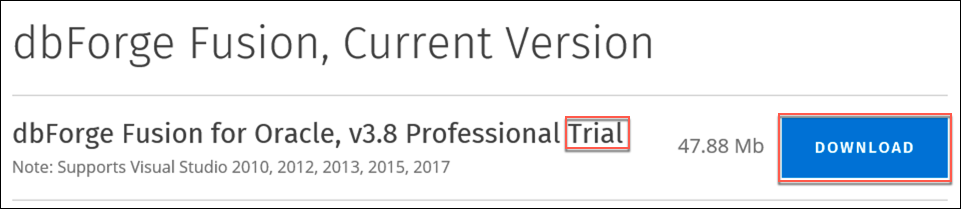
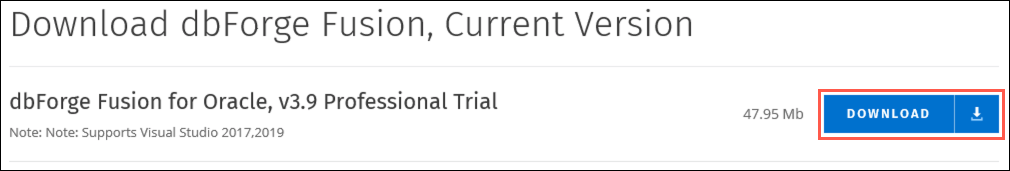
HOL updates

diff --git a/Hands-on lab/HOL step-by-step - Data Platform upgrade and migration.md b/Hands-on lab/HOL step-by-step - Data Platform upgrade and migration.md
@@ -9,7 +9,7 @@ Hands-on lab step-by-step
 </div>
 
 <div class="MCWHeader3">
-September 2019
+November 2019
 </div>
 
 Information in this document, including URL and other Internet Web site references, is subject to change without notice. Unless otherwise noted, the example companies, organizations, products, domain names, e-mail addresses, logos, people, places, and events depicted herein are fictitious, and no association with any real company, organization, product, domain name, e-mail address, logo, person, place or event is intended or should be inferred. Complying with all applicable copyright laws is the responsibility of the user. Without limiting the rights under copyright, no part of this document may be reproduced, stored in or introduced into a retrieval system, or transmitted in any form or by any means (electronic, mechanical, photocopying, recording, or otherwise), or for any purpose, without the express written permission of Microsoft Corporation.
@@ -63,25 +63,25 @@ Microsoft and the trademarks listed at <https://www.microsoft.com/en-us/legal/in
 
 ## Abstract and learning objectives
 
-In this hands-on lab, you will implement a proof of concept (POC) for conducting a site analysis for a customer to compare cost, performance, and level of effort required to migrate from Oracle to SQL Server. You will evaluate the dependent applications and reports that will need to be updated and come up with a migration plan. In addition, you will help the customer take advantage of new SQL Server features to improve performance and resiliency, as well as conduct a migration from an old version of SQL Server to Azure SQL Database.
+In this hands-on lab, you implement a proof of concept (POC) for conducting a site analysis for a customer to compare cost, performance, and level of effort required to migrate from Oracle to SQL Server. You evaluate the dependent applications and reports that need to be updated and come up with a migration plan. Also, you help the customer take advantage of new SQL Server features to improve performance and resiliency and perform a migration from an old version of SQL Server to Azure SQL Database.
 
 At the end of this hands-on lab, you will be better able to design and build a database migration plan and implement any required application changes associated with changing database technologies.
 
 ## Overview
 
-World Wide Importers (WWI) has experienced significant growth in the last few years. In addition to predictable growth, they’ve had a substantial amount of growth in the data they store in their data warehouse. Their data warehouse is starting to show its age; slowing down during extract, transform, and load (ETL) operations and during critical queries. It was built on SQL Server 2008 R2 Standard Edition.
+World Wide Importers (WWI) has experienced significant growth in the last few years. In addition to predictable growth, they’ve had a substantial amount of growth in the data they store in their data warehouse. Their data warehouse is starting to show its age, slowing down during extract, transform, and load (ETL) operations and during critical queries. The data warehouse is running on SQL Server 2008 R2 Standard Edition.
 
-The WWI CIO has recently read about new performance enhancements of Azure SQL Database and SQL Server 2017. She is excited about the potential performance improvements related to clustered ColumnStore indexes. She is also hoping that table compression will improve performance and backup times.
+The WWI CIO has recently read about new performance enhancements of Azure SQL Database and SQL Server 2017. She is excited about the potential performance improvements related to clustered ColumnStore indexes. She is also hoping that table compression can improve performance and backup times.
 
 WWI is concerned about upgrading their database to Azure SQL Database or SQL Server 2017. The data warehouse has been successful for a long time. As it has grown, it has filled with data, stored procedures, views, and security. WWI wants assurance that if it moves its data store, it won’t run into any incompatibilities with the storage engine of Azure SQL Database or SQL Server 2017.
 
-WWI’s CIO would like a POC of a data warehouse move and proof that the new technology will help ETL and query performance.
+WWI’s CIO would like a POC of a data warehouse move and proof that the new technology can help ETL and query performance.
 
 ## Solution architecture
 
-Below is a diagram of the solution architecture you will build in this lab. Please study this carefully, so you understand the whole of the solution as you are working on the various components.
+Below is a diagram of the solution architecture you build in this lab. Please study this carefully, so you understand the whole of the solution as you are working on the various components.
 
-![This solution diagram is divided in to Microsoft Azure, and On Premises. Microsoft Azure includes SQL Server 2017 in a VM as an Always On Secondary, and Azure SQL Stretch Database to extend the audit table to Azure. On Premise includes the following elements: API App for vendor connections; Web App for Internet Sales Transactions; ASP.NET Core App for inventory management; SQL Server 2017 OLTP for Always On and JSON store; SSRS 2017 for Reporting of OLTP, Data Warehouse, and Cubes; SSIS 2017 for a Data Warehouse Load; Excel for reporting; SQL Server 2017 Enterprise for a Data Warehouse; and SSAS 2017 for a Data Warehouse. ](./media/preferred-solution-architecture.png "Preferred Solution diagram")
+![This solution diagram is divided into Microsoft Azure, and On Premises. Microsoft Azure includes SQL Server 2017 in a VM as an Always On Secondary, and Azure SQL Stretch Database to extend the audit table to Azure. On Premise includes the following elements: API App for vendor connections; Web App for Internet Sales Transactions; ASP.NET Core App for inventory management; SQL Server 2017 OLTP for Always On and JSON store; SSRS 2017 for Reporting of OLTP, Data Warehouse, and Cubes; SSIS 2017 for a Data Warehouse Load; Excel for reporting; SQL Server 2017 Enterprise for a Data Warehouse; and SSAS 2017 for a Data Warehouse. ](./media/preferred-solution-architecture.png "Preferred Solution diagram")
 
 The solution begins with using the Microsoft Data Migration Assistant to perform an assessment to see what potentials issues need to be addressed in upgrading the database to SQL Server 2017 or Azure SQL Database. After correcting any issues, the SQL Server 2008 database is migrated to Azure SQL Database, using the Azure Database Migration Service. Two features of Azure SQL Database, Table Compression and ColumnStore Index, will be applied to demonstrate value and performance improvements from the upgrade. For the ColumnStore Index, a new table based on the existing FactResellerSales table will be created, and a ColumnStore index applied. Next, the Oracle XE database supporting the application will be migrated to an on-premises SQL Server 2017 Enterprise instance using SQL Server Migration Assistant (SSMA) 7.x for Oracle. Once the Oracle database has been migrated, the Northwind MVC application will be updated, so it targets SQL Server 2017 instead of Oracle. The entity models are updated against SQL Server, and code updates are made to use the new Entity Framework context based on SQL Server. Corrections to stored procedures are made due to differences in how stored procedures are accessed in Oracle versus SQL Server. Azure SQL Stretch Database will be used to extend the audit log table to Azure, helping to prevent the recurrence of a system crash caused by the audit log table filling up.
 
@@ -90,7 +90,7 @@ The solution begins with using the Microsoft Data Migration Assistant to perform
 - Microsoft Azure subscription must be pay-as-you-go or MSDN.
   - Trial subscriptions will not work.
 - A virtual machine configured with:
-  - Visual Studio Community 2017
+  - Visual Studio 2019 Community
 
 ## Exercise 1: Configure SQL Server instances
 
@@ -102,7 +102,7 @@ In this exercise, you will configure SQL Server 2008 R2 on the SqlServer2008 VM.
 
 In this task, you will create an RDP connection to the SqlServer2008 VM.
 
-1. In the [Azure portal](https://portal.azure.com), select **Resource groups** in the Azure navigation pane, enter your resource group name (hands-on-lab-SUFFIX) into the filter box, and select it from the list.
+1. In the [Azure portal](https://portal.azure.com), select **Resource groups** in the Azure services list, enter your resource group name (hands-on-lab-SUFFIX) into the filter box, and select it from the list.
 
     ![Resource groups is selected in the Azure navigation pane, "hands" is entered into the filter box, and the "hands-on-lab-SUFFIX" resource group is highlighted.](./media/resource-groups.png "Resource groups list")
 
@@ -143,7 +143,7 @@ In this task, you will install the AdventureWorks database in SQL Server 2008 R2
 
 3. Save the file, and unzip the downloaded file to a folder you create, called `C:\AdventureWorksSample`.
 
-4. Return to your open **SQL Server Management Studio 17** (SSMS) window, or launch it again if you closed it. It can be found under Start->All Programs->Microsoft SQL Server Tools 17.
+4. Open **Microsoft SQL Server Management Studio 17** (SSMS) on the SqlServer2008 VM. It can be found under Start->All Programs->Microsoft SQL Server Tools 17.
 
 5. Connect to the **SQLSERVER2008** database, if you are not already connected. In the Connect to Server dialog, leave Authentication set to **Windows Authentication**, and select **Connect**.
 
@@ -243,7 +243,7 @@ In this task, you will update the SQL Server service accounts and other settings
 
 In this task, you will create an RDP connection to the SqlServer2017 VM.
 
-1. In the [Azure portal](https://portal.azure.com), select **Resource groups** in the Azure navigation pane, enter your resource group name (hands-on-lab-SUFFIX) into the filter box, and select it from the list.
+1. In the [Azure portal](https://portal.azure.com), select **Resource groups** in the Azure services list, enter your resource group name (hands-on-lab-SUFFIX) into the filter box, and select it from the list.
 
     ![Resource groups is selected in the Azure navigation pane, "hands" is entered into the filter box, and the "hands-on-lab-SUFFIX" resource group is highlighted.](./media/resource-groups.png "Resource groups list")
 
@@ -276,9 +276,9 @@ In this task, you will create an RDP connection to the SqlServer2017 VM.
 
 In this task, you will update the SQL Server 2017 service accounts and other settings associated with the SQL Server 2017 instance installed on the VM.
 
-1. From the Start Menu on your SqlServer2017 VM, search for **SQL Server 2017 Configuration Manager**, then select it from the search results.
+1. From the Search Menu on your SqlServer2017 VM, search for **SQL Server 2017 Configuration Manager**, then select it from the search results.
 
-    ![SQL Server 2017 Configuration Manager is selected and highlighted in the Search results.](./media/windows-2012-search-sql-server-2017-configuration-manager.png "Select SQL Server 2017 Configuration Manager")
+    ![SQL Server 2017 Configuration Manager is highlighted in the Search results.](./media/windows-search-sql-server-2017-configuration-manager.png "Select SQL Server 2017 Configuration Manager")
 
 2. From the tree on the left of the Configuration Manager window, select **SQL Server Services**.
 
@@ -304,17 +304,13 @@ In this task, you will update the SQL Server 2017 service accounts and other set
 
     ![Enabled is selected on the Protocol tab of the TCP/IP Properties dialog box.](./media/sql-server-2017-configuration-manager-protocols-tcp-ip-properties.png "Enable TCP/IP")
 
-   > **Note**: If prompted that the changes will not take effect until the service is restarted, select **OK**. You will restart the service next.
+   > **Note**: If TCP/IP was not already enabled, you will be prompted that the changes will not take effect until the service is restarted, select **OK**. Restart the service by selecting **SQL Server Services** in the tree on the left, then right-clicking **SQL Server (MSSQLSERVER)** in the services pane, and selecting **Restart**.
 
-9. As done previously, select **SQL Server Services** in the tree on the left, then right-click **SQL Server (MSSQLSERVER)** in the services pane, and select **Restart**.
-
-    ![SQL Server Services is highlighted on the left side of SQL Server 2017 Configuration Manager, SQL Server (MSSQLSERVER) is highlighted on the right, and Restart is highlighted in the submenu.](./media/sql-server-2017-configuration-manager-sql-server-services-sql-server-restart.png "Select Restart")
-
-10. Repeat the previous step for the **SQL Server Agent (MSSQLSERVER)** service, this time selecting **Start** from the menu.
+9. Select **SQL Server Services** in the tree on the left, right-click the **SQL Server Agent (MSSQLSERVER)** service, and then select **Start** from the menu.
 
     ![SQL Server Services is highlighted on the left side of SQL Server 2017 Configuration Manager, SQL Server Agent (MSSQLSERVER) is highlighted on the right, and Start is highlighted in the submenu.](./media/sql-server-2017-configuration-manager-sql-server-services-sql-server-agent-restart.png "Select Start")
 
-11. Close the SQL Server 2017 Configuration Manager.
+10. Close the SQL Server 2017 Configuration Manager.
 
 ## Exercise 2: Migrate SQL Server to Azure SQL Database using DMS
 
@@ -326,7 +322,7 @@ World Wide Importers would like a Proof of Concept (POC) that moves their data w
 
 World Wide Importers would like an assessment to see what potential issues they would have to address in moving their database to Azure SQL Database.
 
-1. On the SqlServer2008 VM, select the **Download** button on the [Data Migration Assistant v4.x](https://www.microsoft.com/download/details.aspx?id=53595) page, and run the downloaded installer.
+1. On the SqlServer2008 VM, download the [Data Migration Assistant v5.x](https://www.microsoft.com/download/confirmation.aspx?id=53595) and run the downloaded installer.
 
 2. Select **Next** on each of the screens, accepting to the license terms and privacy policy in the process.
 
@@ -368,7 +364,7 @@ World Wide Importers would like an assessment to see what potential issues they 
 
 11. Review the Assessment results, selecting both **SQL Server feature parity** and **Compatibility issues** options and viewing the reports.
 
-    ![Various information is selected on the Review results screen. At this time, we are unable to capture all of the information in the window. Future versions of this course should address this.](./media/data-migration-assistant-review-results-sqlserver2008-worldwideimporters.png "Review the Assessment results")
+    ![Various information is selected on the Review results screen.](./media/data-migration-assistant-review-results-sqlserver2008-worldwideimporters.png "Review the Assessment results")
 
 12. You now have a list of the issues WWI will need to consider in upgrading their database to Azure SQL Database. Notice the assessment includes recommendations on the potential resolutions to issues. You can select **Export Assessment** on the top toolbar to save the report as a JSON file, if desired.
 
@@ -404,10 +400,10 @@ After you have reviewed the assessment results and you have ensured the database
 
 6. On the **Select target** tab, enter the following:
 
-    - **Server name**: Enter the server name of the Azure SQL Database you created.
+    - **Server name**: Enter the server name of the Azure SQL Database you created during the before the hands-on lab exercise.
         - To find the name of your SQL Database, select the WorldWideImporters SQL Database from your hands-on-lab-SUFFIX resource group in the Azure portal, and then select the **Server name** in the Essentials area of the Overview blade.
 
-        ![On the SQL database Overview blade, the Server name is highlighted.](media/azure-sql-database-servername.png "SQL Database Overview")
+    ![On the SQL database Overview blade, the Server name is highlighted.](media/azure-sql-database-servername.png "SQL Database Overview")
 
     - **Authentication type**: Select SQL Server Authentication.
     - **Username**: Enter demouser.
@@ -886,7 +882,7 @@ In this exercise, you will install Oracle XE on your Lab VM, load a sample datab
 
 ### Task 4: Install dbForge Fusion tool
 
-In this task, you will install a third-party extension to Visual Studio to enable interaction with, and script execution for, Oracle databases in Visual Studio Community 2017 Edition.
+In this task, you will install a third-party extension to Visual Studio to enable interaction with, and script execution for, Oracle databases in Visual Studio 2017 Community 2017 Edition.
 
 > This step is required because the Oracle Developer Tools extension does not currently work with the Community edition of Visual Studio.
 
@@ -894,7 +890,7 @@ In this task, you will install a third-party extension to Visual Studio to enabl
 
 2. Scroll down on the page, and download a Trial of the current version by selecting the blue download link.
 
-    ![Trial and Download are highlighted under dbForge Fusion, Current Version.](./media/dbforge-trial-download.png "dbForge Fusion, Current Version section")
+    ![The Download button is highlighted under dbForge Fusion, Current Version.](./media/dbforge-trial-download.png "dbForge Fusion, Current Version section")
 
 3. Run the installer.
 
@@ -954,29 +950,22 @@ WWI has provided you with a copy of their application, including a database scri
 
     ![Ask me for every project in this solution is cleared and OK is selected on the Security Warning screen.](./media/visual-studio-security-warning.png "Clear Ask me for every project in this solution")
 
-13. Once then solution is open in Visual Studio, select the **Fusion** menu, and select **New Connection**.
+13. Once then solution is open in Visual Studio, select the **Extensions -> Fusion** menu, and then select **New Connection**.
 
     ![New Connection is highlighted in the Fusion menu in Visual Studio.](./media/visual-studio-fusion-menu-new-connection.png "Select New Connection")
 
 14. In the Database Connection properties dialog, set the following values:
 
     - **Host**: localhost
-
     - **Port**: Leave 1521 selected.
-
     - Select **SID**, and enter **XE**.
-
     - **User**: system
-
     - **Password**: Password.1!!
-
     - Check **Allow saving password**.
-
     - **Connect as**: Normal
-
     - **Connection Name**: Northwind
 
-        ![The information above is entered in the Database Connection Properties * Oracle dialog box, and OK is selected at the bottom.](./media/visual-studio-fusion-new-database-connection.png "Specify the settings")
+    ![The information above is entered in the Database Connection Properties * Oracle dialog box, and OK is selected at the bottom.](./media/visual-studio-fusion-new-database-connection.png "Specify the settings")
 
 15. Select **Test Connection** to verify the settings are correct, and select **OK** to close the popup.
 
@@ -1078,6 +1067,8 @@ In this task, you will add the necessary configuration to the `NorthwindMVC` sol
 5. You should see the Northwind Traders Dashboard load in your browser.
 
     ![The Northwind Traders Dashboard is visible in a browser.](./media/northwind-traders-dashboard.png "View the dashboard")
+
+    > **Note**: If you receive an error about being unable to find part of the path for `bin\roslyn\csc.exe`, stop the debugging session by selecting the Stop button on the toolbar. Next, select Tools -> NuGet Package Manager -> Package Manager Console, and at the prompt execute the following command: `Update-Package Microsoft.CodeDom.Providers.DotNetCompilerPlatform -r`. Once the command finishes, run the solution again.
 
 6. Close the browser to stop debugging the application, and return to Visual Studio.
 
